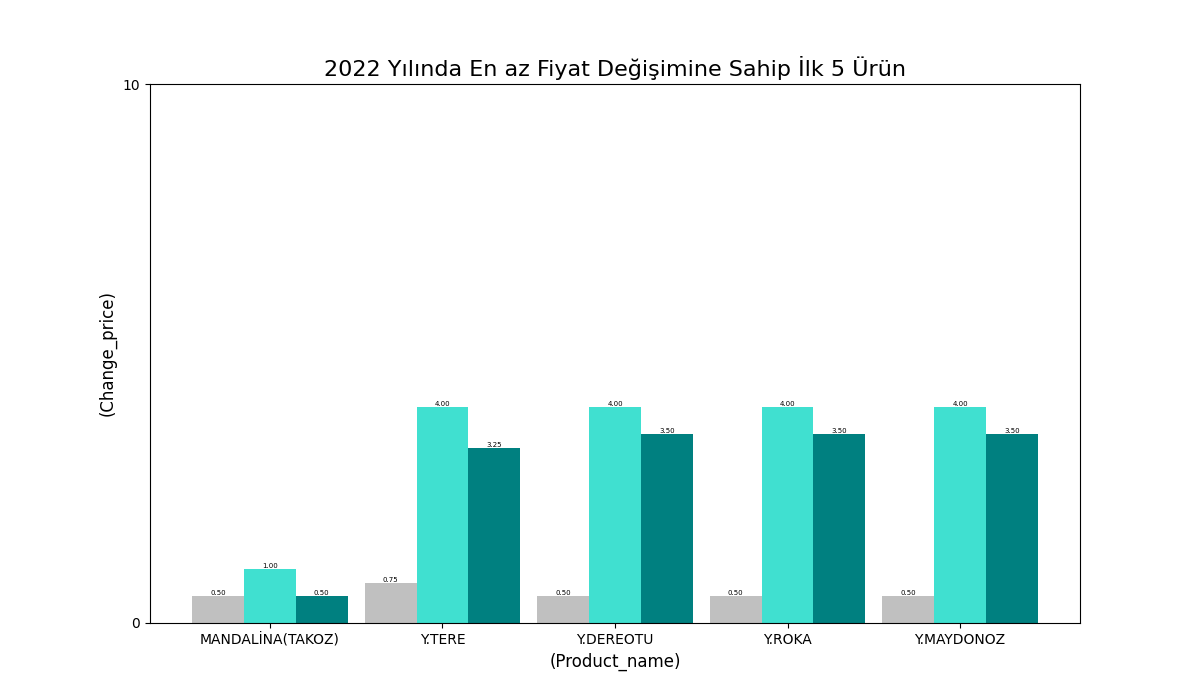
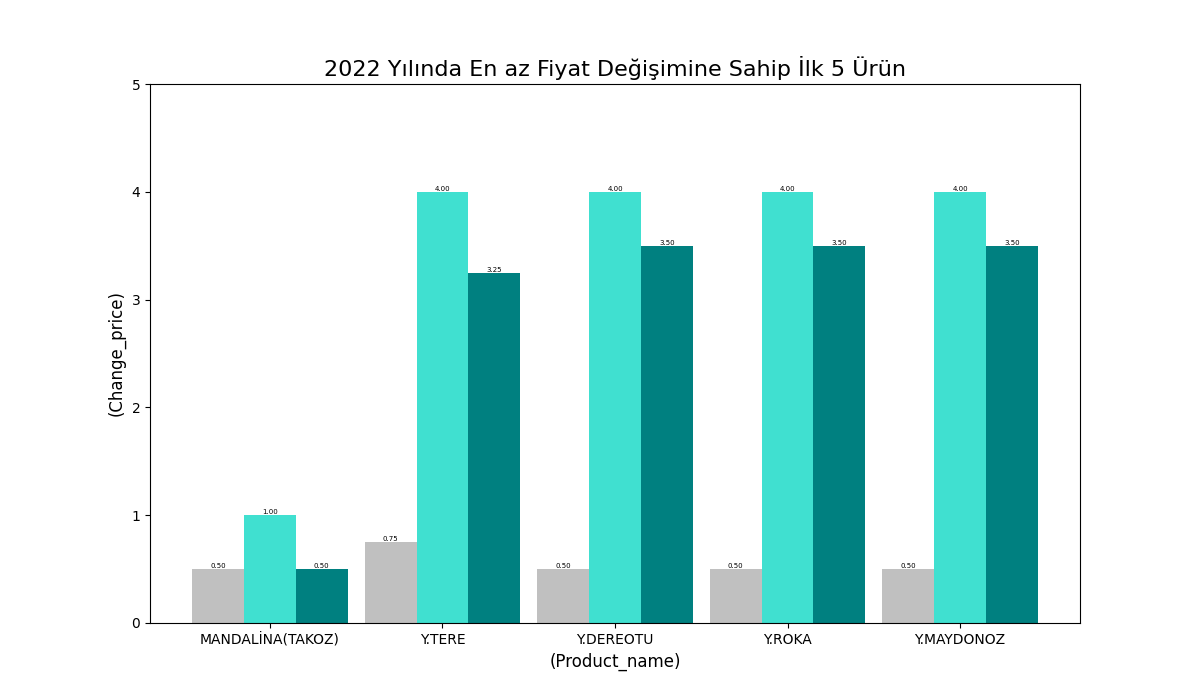
update

diff --git a/scripts/2023_yılında_en_az_fiyat_değişimine_sahip_ilk_5_ürün_grafik.py b/scripts/2023_yılında_en_az_fiyat_değişimine_sahip_ilk_5_ürün_grafik.py
@@ -30,7 +30,7 @@ plt.xticks([p + bar_width for p in index], df['name'])
 plt.title('2023 Yılında En az Fiyat Değişimine Sahip İlk 5 Ürün', fontsize=16)
 plt.xlabel('(Product_name)', fontsize=12)
 plt.ylabel('(Change_price)', fontsize=12)
-plt.yticks(range(0, int(df[['min_fiyat', 'max_fiyat', 'fiyat_degisimi']].max().max()) + 10, 10))
+plt.yticks(range(0, int(df[['min_fiyat', 'max_fiyat', 'fiyat_degisimi']].max().max()) + 5, 5))
 for bars in [bars_min_fiyat, bars_max_fiyat, bars_fiyat_degisimi]:
     for bar in bars: 
         plt.text(bar.get_x() + bar.get_width() / 2, bar.get_height() + bar.get_y(), 

diff --git a/scripts/2024_yılında_en_az_fiyat_değişimine_sahip_ilk_5_ürün_grafik.py b/scripts/2024_yılında_en_az_fiyat_değişimine_sahip_ilk_5_ürün_grafik.py
@@ -30,7 +30,7 @@ plt.xticks([p + bar_width for p in index], df['name'])
 plt.title('2024 Yılında En Az Fiyat Değişimine Sahip İlk 5 Ürün', fontsize=16)
 plt.xlabel('(Product_name)', fontsize=12)
 plt.ylabel('(Change-price)', fontsize=12)
-plt.yticks(range(0, int(df[['min_fiyat', 'max_fiyat', 'fiyat_degisimi']].max().max()) + 10, 25))
+plt.yticks(range(0, int(df[['min_fiyat', 'max_fiyat', 'fiyat_degisimi']].max().max()) + 5, 5))
 for bars in [bars_min_fiyat, bars_max_fiyat, bars_fiyat_degisimi]:
     for bar in bars: 
         plt.text(bar.get_x() + bar.get_width() / 2, bar.get_height() + bar.get_y(), 

diff --git a/scripts/2022_yılında_en_az_fiyat_değişimine_sahip_ilk_5_ürün_grafik.py b/scripts/2022_yılında_en_az_fiyat_değişimine_sahip_ilk_5_ürün_grafik.py
@@ -30,7 +30,7 @@ plt.xticks([p + bar_width for p in index], df['name'])
 plt.title('2022 Yılında En az Fiyat Değişimine Sahip İlk 5 Ürün', fontsize=16)
 plt.xlabel('(Product_name)', fontsize=12)
 plt.ylabel('(Change_price)', fontsize=12)
-plt.yticks(range(0, int(df[['min_fiyat', 'max_fiyat', 'fiyat_degisimi']].max().max()) + 10, 10))
+plt.yticks(range(0, int(df[['min_fiyat', 'max_fiyat', 'fiyat_degisimi']].max().max()) + 2, 1))
 
 # Fiyat verilerini görselde göstermek
 for bars in [bars_min_fiyat, bars_max_fiyat, bars_fiyat_degisimi]:
